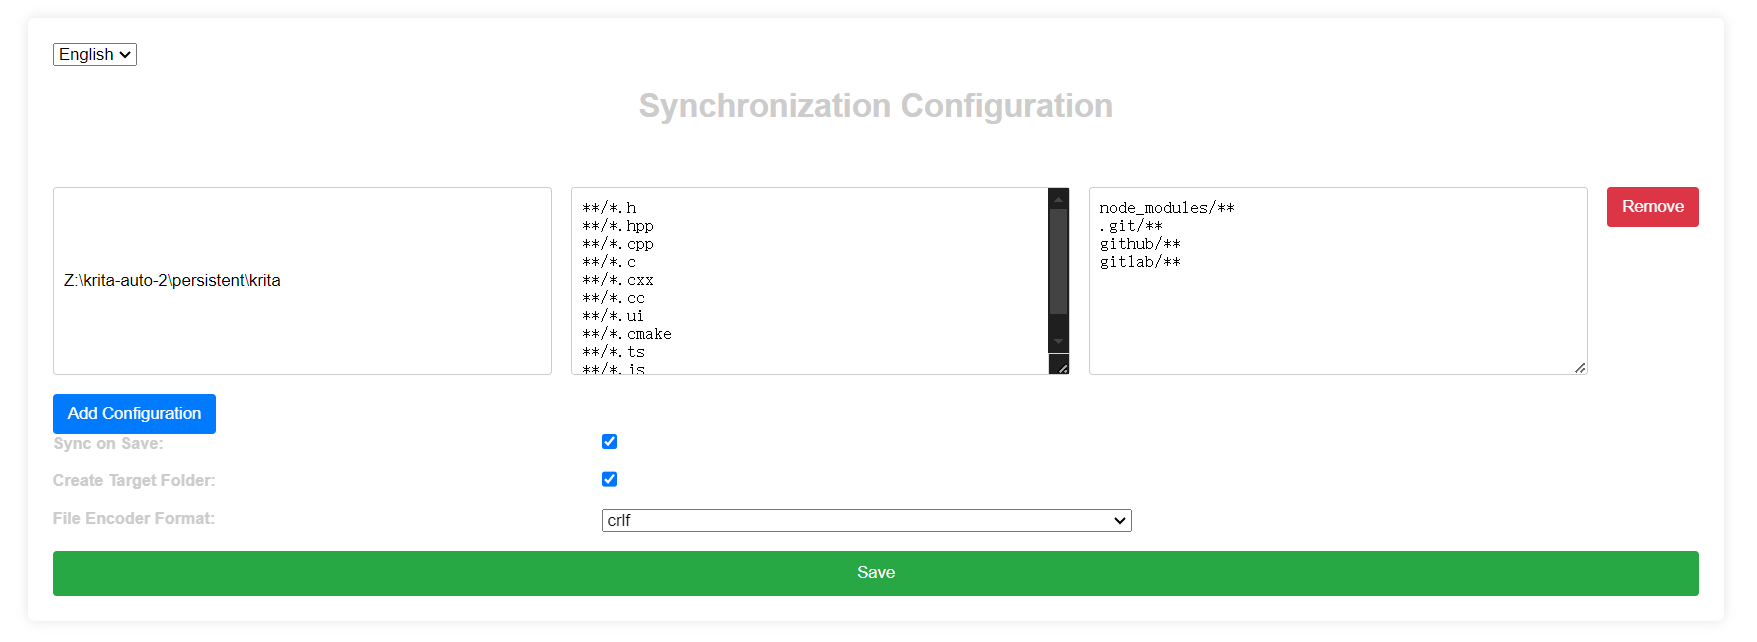
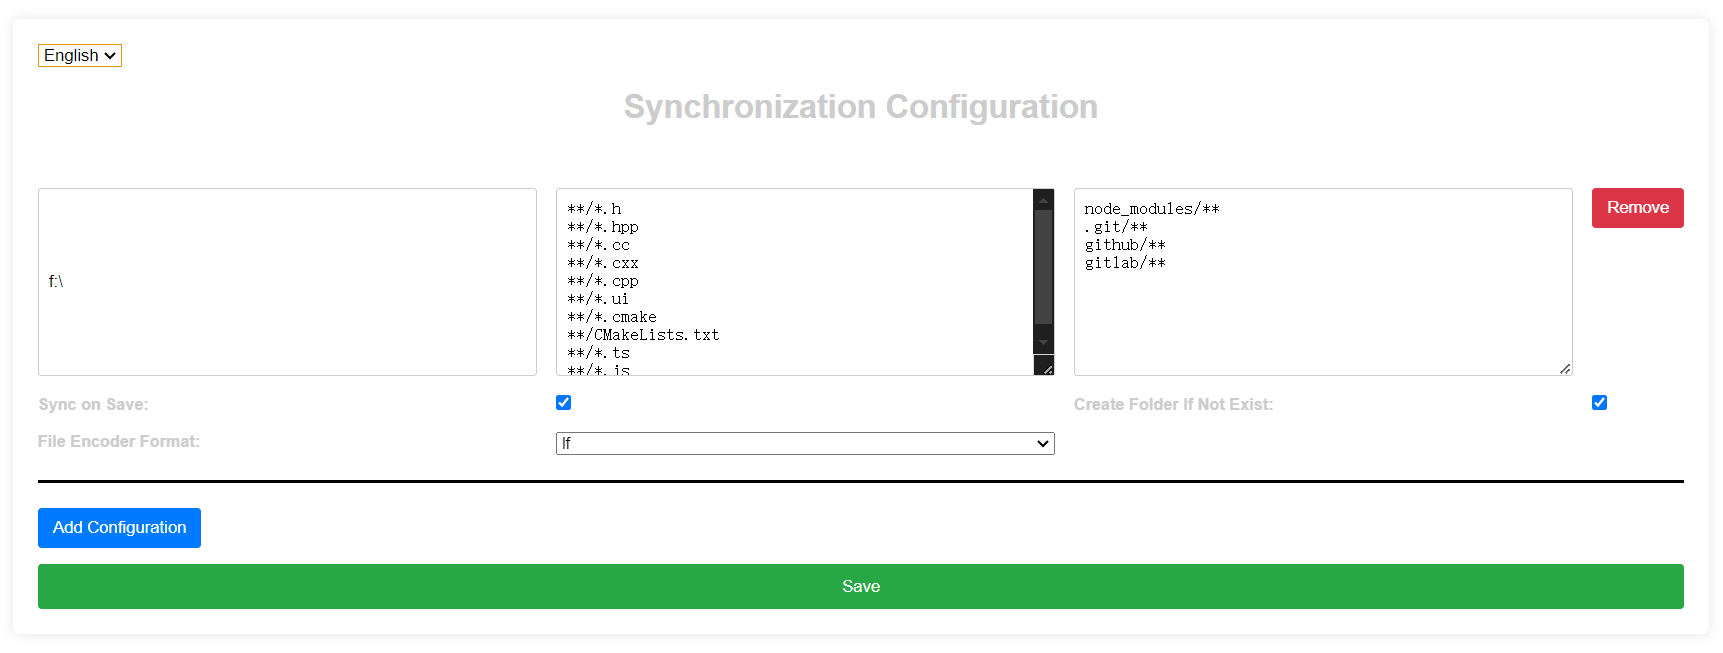
support lf and crlf

diff --git a/config.html b/config.html
@@ -106,6 +106,15 @@
         .language-switcher {
             align-items: flex-end;
         }
+
+        /* 可选：自定义 hr 的样式 */
+        hr {
+            border: none; /* 移除默认边框 */
+            height: 2px; /* 直线厚度 */
+            background-color: black; /* 直线颜色 */
+            width: 100%; /* 直线宽度 */
+            margin: 20px auto; /* 居中显示 */
+        }        
     </style>
 </head>
 
@@ -121,23 +130,12 @@
             <h1 id="form-title">Synchronization Configuration</h1>
         </div>
         <div id="folderConfigs">
-            <!-- SYNC_JSON_CONTENT -->
-
         </div>
-        <button type="button" id="add-button" onclick="addFolderConfig()">Add Configuration</button>
-        <div class="form-grid">
-            <label for="syncOnSave" id="sync-label">Sync on Save:</label>
-            <input type="checkbox" id="syncOnSave" name="syncOnSave" checked>
+        <div>
+            <button type="button" id="add-button" onclick="addFolderConfig()">Add Configuration</button>
+            </p>
+            <input type="submit" class="submit-button" id="submit-button" value="Save">
         </div>
-        <div class="form-grid">
-            <label for="createTargetFolder" id="create-label">Create Target Folder:</label>
-            <input type="checkbox" id="createTargetFolder" name="createTargetFolder" checked>
-        </div>
-        <div class="form-grid">
-            <label for="fileEncoderSelector" id="file-encoder">File Encoder Format:</label>
-            <select id="fileEncoderSelector" name="fileEncoderSelector"><option value="nochange">no change</option><option value="lf">lf</option><option value="crlf">crlf</option></select>
-        </div>
-        <input type="submit" class="submit-button" id="submit-button" value="Save">
     </form>
     <script>
         // 语言资源
@@ -150,7 +148,7 @@
                 remove: "Remove",
                 add: "Add Configuration",
                 sync: "Sync on Save:",
-                create: "Create Target Folder:",
+                create: "Create Folder If Not Exist:",
                 submit: "Save",
                 alert: "At least one configuration must be retained!"
             },
@@ -168,11 +166,13 @@
             }
         };
 
+        const vscode = acquireVsCodeApi();
         // 默认语言
         let currentLang = 'en';
-
         // 更新页面语言
         function updateLanguage(lang) {
+            console.log("updateLanguage: ", lang);
+
             currentLang = lang;
             document.documentElement.lang = lang;
             document.getElementById('form-title').textContent = translations[lang].title;
@@ -192,12 +192,59 @@
             updateLanguage(lang);
         });
 
+
+        function initUiFromConfig(syncConfigObject) {
+            try {
+                currentLang = syncConfigObject.lang;
+                
+                document.getElementById('language-selector').value = syncConfigObject.lang;
+                
+                syncConfigObject.targetFolders.forEach((targetFolder, index) => {
+                    const folderConfigs = document.getElementById('folderConfigs');
+                    const newConfig = document.createElement('div');
+                    newConfig.className = 'form-grid';
+                    newConfig.innerHTML = `
+                        <input type="text" name="targetPath" placeholder="${translations[currentLang].targetPath}" value="${targetFolder.path}" required>
+                        <textarea name="includePatterns" placeholder="${translations[currentLang].includePatterns}">${targetFolder.include.join('\n')}</textarea>
+                        <textarea name="excludePatterns" placeholder="${translations[currentLang].excludePatterns}">${targetFolder.exclude.join('\n')}</textarea>
+                        <button type="button" class="remove-button" id="remove-button" onclick="removeFolderConfig(this)">${translations[currentLang].remove}</button>
+                        <label for="syncSwitcher" id="sync-label">Sync on Save:</label>
+                        <input type="checkbox" id="syncSwitcher" name="syncSwitcher" ${targetFolder.syncSwitcher ? 'checked' : ''}>
+                        <label for="createDir" id="create-label">Create Folder If Not Exist:</label>
+                        <input type="checkbox" id="createDir" name="createDir" ${targetFolder.createDir ? 'checked' : ''}>
+                        <label for="fileEncoderSelector" id="file-encoder">File Encoder Format:</label>
+                        <select id="fileEncoderSelector" name="fileEncoderSelector">
+                            <option value="nochange">no change</option>
+                            <option value="lf">lf</option>
+                            <option value="crlf">crlf</option>
+                        </select>
+                    `;
+                    // const selectConfig = document.createElement('select');
+                    // selectConfig.id = 'fileEncoderSelector';  
+                    // selectConfig.name = 'fileEncoderSelector';                     
+                    // selectConfig.innerHTML = `<option value="nochange">no change</option>
+                    //  <option value="lf">lf</option>
+                    //  <option value="crlf">crlf</option>
+                    // `;
+                    // selectConfig.value = targetFolder.fileEncoderSelector;
+                    // newConfig.appendChild(selectConfig);
+                    folderConfigs.appendChild(newConfig);
+                    const newHr = document.createElement('hr');
+                    folderConfigs.appendChild(newHr);
+
+                    newConfig.querySelector('select[name="fileEncoderSelector"]').value = targetFolder.fileEncoderSelector;
+                });
+                
+            } catch (error) {
+                console.log('initUiFromConfig error: ', error);
+            }
+        }
+
+        initUiFromConfig(<!-- INIT_SCRIPTS_CONTENT -->);
+
         // 初始化语言
         updateLanguage(currentLang);
-
-        const vscode = acquireVsCodeApi();
-
-        <!-- INIT_SCRIPTS_CONTENT -->
+        
         // document.querySelector('textarea[name="includePatterns"]').value = "**/*.h\n**/*.hpp\n**/*.cpp\n**/*.c\n**/*.cxx\n**/*.cc\n**/*.ui\n**/*.cmake\n**/*.ts\n**/*.js";
         // document.querySelector('textarea[name="excludePatterns"]').value = "node_modules/**\n.git/**\ngithub/**\ngitlab/**";
 
@@ -211,8 +258,20 @@
                 <textarea name="includePatterns" placeholder="${translations[currentLang].includePatterns}"></textarea>
                 <textarea name="excludePatterns" placeholder="${translations[currentLang].excludePatterns}"></textarea>
                 <button type="button" class="remove-button" onclick="removeFolderConfig(this)">${translations[currentLang].remove}</button>
+                <label for="syncSwitcher" id="sync-label">Sync on Save:</label>
+                <input type="checkbox" id="syncSwitcher" name="syncSwitcher" checked>
+                <label for="createDir" id="create-label">Create Folder If Not Exist:</label>
+                <input type="checkbox" id="createDir" name="createDir" checked>
+                <label for="fileEncoderSelector" id="file-encoder">File Encoder Format:</label>
+                <select id="fileEncoderSelector" name="fileEncoderSelector">
+                    <option value="nochange">no change</option>
+                    <option value="lf">lf</option>
+                    <option value="crlf">crlf</option>
+                </select>                
             `;
             folderConfigs.appendChild(newConfig);
+            const newHr = document.createElement('hr');
+            folderConfigs.appendChild(newHr);
         }
 
         // 删除一条配置
@@ -230,27 +289,29 @@
             event.preventDefault();
 
             const folderConfigs = document.querySelectorAll('#folderConfigs .form-grid');
+            console.log("folderConfigs: ", folderConfigs);
             const targetFolders = [];
             folderConfigs.forEach(config => {
+                console.log("config: ", config);
                 const targetPath = config.querySelector('input[name="targetPath"]').value;
                 const includePatterns = config.querySelector('textarea[name="includePatterns"]').value.split('\n').filter(line => line.trim() !== '');
                 const excludePatterns = config.querySelector('textarea[name="excludePatterns"]').value.split('\n').filter(line => line.trim() !== '');
+                const syncSwitcher = config.querySelector('input[name="syncSwitcher"]').checked;
+                const createDir = config.querySelector('input[name="createDir"]').checked;
+                const fileEncoderSelector = config.querySelector('select[name="fileEncoderSelector"]').value;
                 targetFolders.push({
                     path: targetPath,
                     include: includePatterns,
-                    exclude: excludePatterns
+                    exclude: excludePatterns,
+                    syncSwitcher: syncSwitcher,
+                    createDir: createDir,
+                    fileEncoderSelector: fileEncoderSelector
                 });
             });
 
-            const syncOnSave = document.getElementById('syncOnSave').checked;
-            const createTargetFolder = document.getElementById('createTargetFolder').checked;
-            const fileEncoderSelector = document.getElementById('fileEncoderSelector').value;
-
             const newConfig = {
+                lang: currentLang,
                 targetFolders: targetFolders,
-                syncOnSave: syncOnSave,
-                createTargetFolder: createTargetFolder,
-                fileEncoderSelector: fileEncoderSelector,
             };
 
             vscode.postMessage({

diff --git a/src/extension.ts b/src/extension.ts
@@ -4,20 +4,32 @@ import * as vscode from 'vscode';
 import * as fs from 'fs';
 import * as path from 'path';
 import * as minimatch from 'minimatch';
-import { json } from 'stream/consumers';
 
 interface SyncConfig {
+    lang: string,
     targetFolders: Array<{
         path: string;
         include: string[];
         exclude: string[];
+        syncSwitcher: boolean;
+        createDir: boolean;
+        fileEncoderSelector: string;
     }>;
-    syncOnSave: boolean;
-    createTargetFolder: boolean;
-    fileEncoderSelector: string;
 }
 
 let globalConfig: SyncConfig;
+const defaultConfig: SyncConfig = {
+    lang: 'en',
+    targetFolders: [{
+        path: './',
+        include: ['**/*.h', '**/*.hpp', '**/*.cc', '**/*.cxx', '**/*.cpp', '**/*.ui', '**/*.cmake', '**/CMakeLists.txt', '**/*.ts', '**/*.js'],
+        exclude: ['node_modules/**', '.git/**', 'github/**', 'gitlab/**'],
+        syncSwitcher: true,
+        createDir: true,
+        fileEncoderSelector: 'nochange'
+    }],
+};
+
 let bSyning: boolean = true;
 
 /**
@@ -51,29 +63,12 @@ export function activate(context: vscode.ExtensionContext) {
         vscode.commands.registerCommand('syncOnSave.initConfigSyncFile', async () => {
             const configPath = vscode.workspace.rootPath ? path.join(vscode.workspace.rootPath, 'sync.json') : '';
             if (!fs.existsSync(configPath)) {
-                const defaultConfig: SyncConfig = {
-                    targetFolders: [{
-                        path: './',
-                        include: ['**/*.h', '**/*.hpp', '**/*.cc', '**/*.cxx', '**/*.cpp', '**/*.ui', '**/*.cmake', '**/*.ts', '**/*.js'],
-                        exclude: ['node_modules/**', '.git/**', 'github/**', 'gitlab/**']
-                    }],
-                    syncOnSave: true,
-                    createTargetFolder: true,
-                    fileEncoderSelector: 'nochange'
-                };
                 fs.writeFileSync(configPath, JSON.stringify(defaultConfig, null, 2));
             }
 
-            // const doc = await vscode.workspace.openTextDocument(configPath);
-            // await vscode.window.showTextDocument(doc);
             const htmlPath = vscode.Uri.joinPath(context.extensionUri, 'config.html');
             const htmlDoc = await vscode.workspace.openTextDocument(htmlPath);
-            let configData: SyncConfig = {
-                targetFolders: [],
-                syncOnSave: false,
-                createTargetFolder: false,
-                fileEncoderSelector: 'nochange'
-            };
+            let configData: SyncConfig = defaultConfig;
             if (fs.existsSync(configPath)) {
                 try {
                     configData = JSON.parse(fs.readFileSync(configPath, 'utf-8'));
@@ -81,6 +76,7 @@ export function activate(context: vscode.ExtensionContext) {
                     console.log('读取sync.json配置文件失败:', error);
                 }
             }
+
             const panel = vscode.window.createWebviewPanel('configSync', '配置同步', vscode.ViewColumn.One,
                 {
                     enableScripts: true,
@@ -117,50 +113,9 @@ export function activate(context: vscode.ExtensionContext) {
                         break;
                 }
             });
-            const translations: { [key: string]: { title: string; targetPath: string; includePatterns: string; excludePatterns: string; remove: string; add: string; sync: string; create: string; submit: string; alert: string; } } = {
-                en: {
-                    title: "Synchronization Configuration",
-                    targetPath: "Target Folder Path",
-                    includePatterns: "Include Patterns (one per line)",
-                    excludePatterns: "Exclude Patterns (one per line)",
-                    remove: "Remove",
-                    add: "Add Configuration",
-                    sync: "Sync on Save:",
-                    create: "Create Target Folder:",
-                    submit: "Save",
-                    alert: "At least one configuration must be retained!"
-                },
-                zh: {
-                    title: "同步功能配置",
-                    targetPath: "目标文件夹路径",
-                    includePatterns: "包含规则（每行一个规则）",
-                    excludePatterns: "排除规则（每行一个规则）",
-                    remove: "移除",
-                    add: "添加配置",
-                    sync: "保存时同步:",
-                    create: "创建目标文件夹:",
-                    submit: "保存",
-                    alert: "至少需要保留一个配置！"
-                }
-            };
-            let currentLang = 'en';
+
             let htmlContent = await htmlDoc.getText();
-            let syncJsonContent = '';
-            configData.targetFolders.forEach((targetFolder, index) => {
-                syncJsonContent += `<div class='form-grid'>`;
-                syncJsonContent += `
-                <input type="text" name="targetPath" placeholder="${translations[currentLang].targetPath}" value="${targetFolder.path}" required>
-                <textarea name="includePatterns" placeholder="${translations[currentLang].includePatterns}">${targetFolder.include.join('\n')}</textarea>
-                <textarea name="excludePatterns" placeholder="${translations[currentLang].excludePatterns}">${targetFolder.exclude.join('\n')}</textarea>
-                <button type="button" class="remove-button" id="remove-button" onclick="removeFolderConfig(this)">${translations[currentLang].remove}</button>
-                `;
-                syncJsonContent += `</div>`;
-            });
-            let initScriptsContent = `
-                document.querySelector('select[name="fileEncoderSelector"]').value = '${configData.fileEncoderSelector}';
-            `;
-            htmlContent = htmlContent.replace('<!-- SYNC_JSON_CONTENT -->', syncJsonContent);
-            htmlContent = htmlContent.replace('<!-- INIT_SCRIPTS_CONTENT -->', initScriptsContent);
+            htmlContent = htmlContent.replace('<!-- INIT_SCRIPTS_CONTENT -->', JSON.stringify(configData));
             panel.webview.html = htmlContent;
         })
     );
@@ -205,11 +160,12 @@ export function activate(context: vscode.ExtensionContext) {
                 return;
             }
 
-            if (!globalConfig.syncOnSave) {
-                return;
-            }
 
             for (const target of globalConfig.targetFolders) {
+                if (!target.syncSwitcher) {
+                    continue;
+                }
+
                 if (target.path === '' || path.resolve(vscode.workspace.rootPath || '', target.path) === vscode.workspace.rootPath) {
                     continue;
                 }
@@ -219,7 +175,7 @@ export function activate(context: vscode.ExtensionContext) {
                 const destPath = path.join(targetPath, relativePath);
                 try {
                     const destDir = path.dirname(destPath);
-                    if (globalConfig.createTargetFolder && !fs.existsSync(destDir)) {
+                    if (target.createDir && !fs.existsSync(destDir)) {
                         fs.mkdirSync(destDir, { recursive: true });
                     }
                 } catch (error) {
@@ -236,9 +192,9 @@ export function activate(context: vscode.ExtensionContext) {
                 if (shouldSync) {
                     try {
                         // 执行文件复制
-                        if (globalConfig.fileEncoderSelector === 'lf') {
+                        if (target.fileEncoderSelector === 'lf') {
                             copyFileWithLineEnding(filePath, destPath, 'lf');
-                        } else if (globalConfig.fileEncoderSelector === 'crlf') {
+                        } else if (target.fileEncoderSelector === 'crlf') {
                             copyFileWithLineEnding(filePath, destPath, 'crlf');
                         } else {
                             fs.copyFileSync(filePath, destPath);

diff --git a/README.md b/README.md
@@ -1,6 +1,6 @@
 # Sync on Save
 
-The syncOnSave extension supports backing up files to other folders upon saving. It also supports backing up to multiple target folders. File formats can be specified using regular expressions, and it includes filtering options to exclude unwanted file formats.
+The syncOnSave extension supports backing up files to other folders upon saving. It also supports backing up to multiple target folders. File formats can be specified using regular expressions, and it includes filtering options to exclude unwanted file formats. When synchronizing files, you can choose whether to convert them to lf or crlf format.
 
 ## Features
 

diff --git a/README.zh.md b/README.zh.md
@@ -1,6 +1,6 @@
 # 介绍
 
-syncOnSave扩展支持在保存的时候把文件保存备份到其他的文件夹，而且支持备份到多个目标文件夹；文件支持正则表达式；支持过滤不需要备份的文件格式配置。
+syncOnSave扩展支持在保存的时候把文件保存备份到其他的文件夹，而且支持备份到多个目标文件夹；文件支持正则表达式；支持过滤不需要备份的文件格式配置。同步文件的时候能选择是否转成lf或者crlf格式。
 
 ## 特性
 
